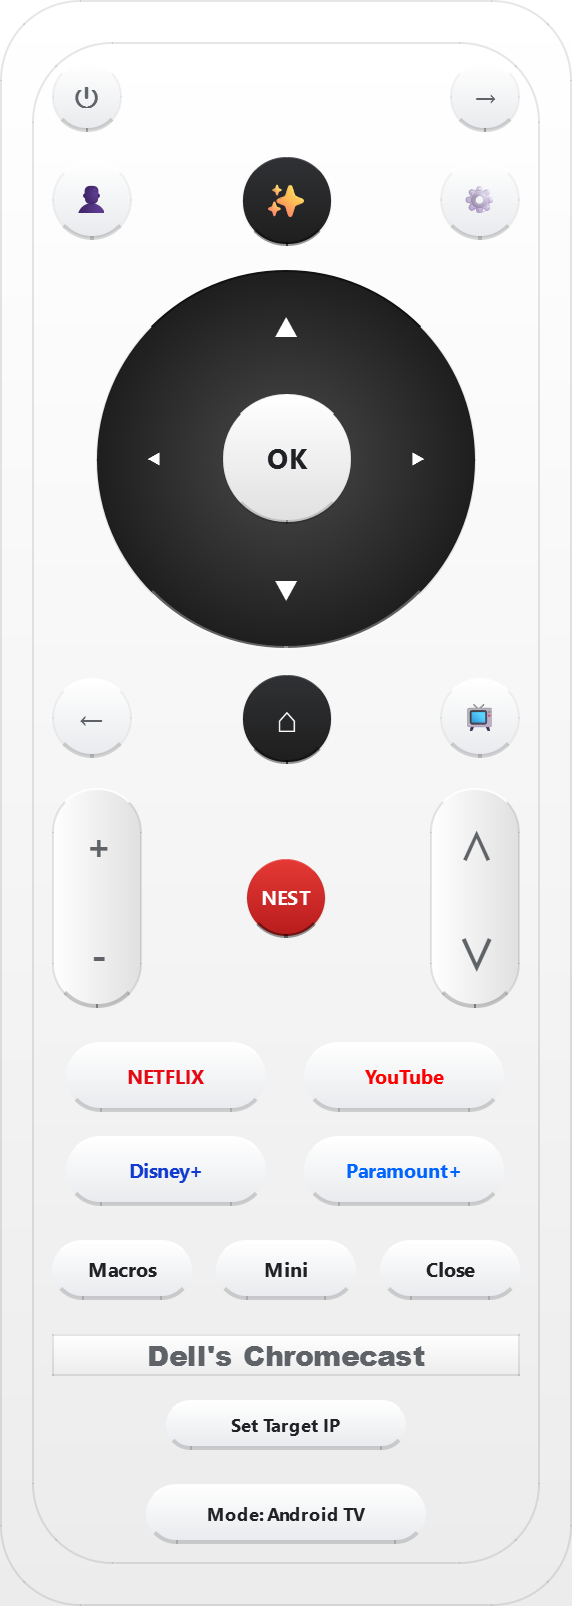
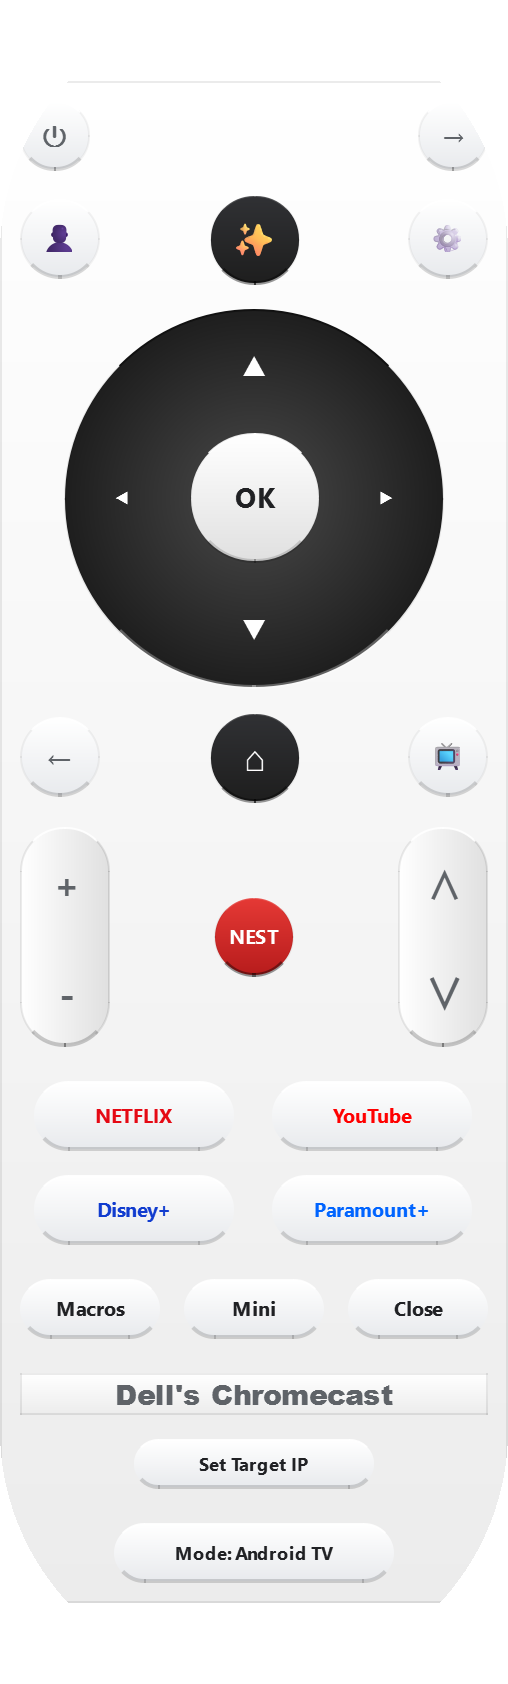
Show the oval restored Chromecast remote people actually download

diff --git a/app.js b/app.js
@@ -229,7 +229,7 @@ function fillDetail(script) {
   if (art) {
     if (!art.dataset.default) art.dataset.default = art.innerHTML;
     art.innerHTML = isChromecast(script)
-      ? `<img src="assets/chromecast-app-remote.png?v=5" alt="DK Chromecast Remote">`
+      ? `<img src="assets/chromecast-app-remote.png?v=6" alt="DK Chromecast Remote">`
       : art.dataset.default;
   }
   showTab("install");
@@ -249,7 +249,7 @@ function cardHtml(script, featured) {
     .map((tag) => `<span class="tag">${escapeHtml(tag)}</span>`).join("");
   const date = (script.modified || "").split(" ")[0] || "";
   const visual = isChromecast(script)
-    ? `<img src="assets/chromecast-app-remote.png?v=5" alt="">`
+    ? `<img src="assets/chromecast-app-remote.png?v=6" alt="">`
     : `<div class="card-icon ${icon.tone}">${icon.glyph}</div>`;
   return `
     <article class="card ${isChromecast(script) ? "card-remote" : ""}" data-id="${script.id}">

diff --git a/index.html b/index.html
@@ -56,7 +56,7 @@
           <a class="btn btn-ghost" href="#featured">View Featured</a>
         </div>
         <button class="hero-remote" id="heroRemote" type="button" title="Open Chromecast Remote">
-          <img src="assets/chromecast-app-remote.png?v=5" alt="DK Chromecast Remote">
+          <img src="assets/chromecast-app-remote.png?v=6" alt="DK Chromecast Remote">
         </button>
       </div>
 
